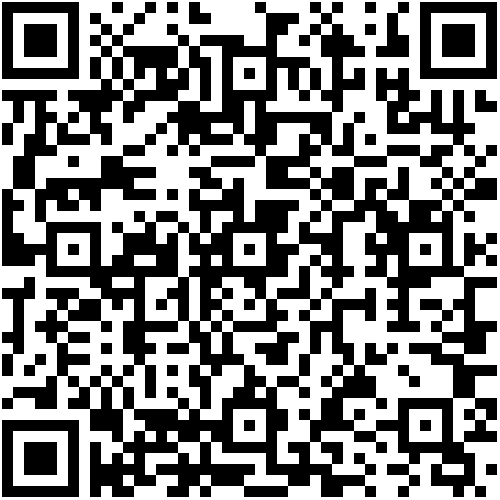
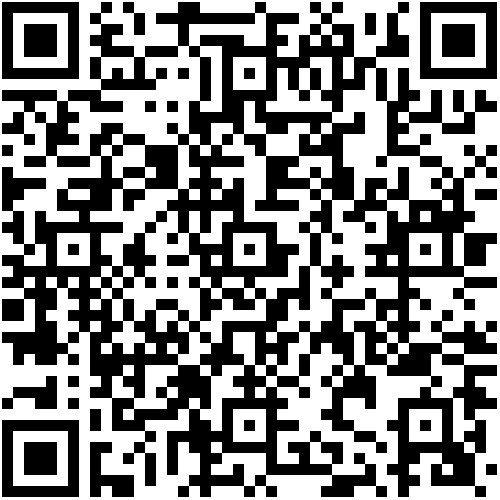
Novo preço 19,90

diff --git a/index.html b/index.html
@@ -172,7 +172,7 @@
                     <div class="content-item">
                         <div class="content-icon">💰</div>
                         <h3>Preço Acessível</h3>
-                        <p>Por apenas R$ 9,90, você tem acesso imediato a 10 cifras de qualidade para enriquecer seu
+                        <p>Por apenas R$ 19,90, você tem acesso imediato a 10 cifras de qualidade para enriquecer seu
                             repertório musical.</p>
                     </div>
                 </div>
@@ -189,7 +189,7 @@
                             <div class="stat-label">Formato</div>
                         </div>
                         <div class="stat-item">
-                            <div class="stat-number">R$9,90</div>
+                            <div class="stat-number">R$19,90</div>
                             <div class="stat-label">Preço</div>
                         </div>
                     </div>
@@ -626,7 +626,7 @@
                         <h3>Acesso Completo às Cifras</h3>
                         <div class="price">
                             <span class="currency">R$</span>
-                            <span class="amount">9,90</span>
+                            <span class="amount">19,90</span>
                             <span class="period">pagamento único</span>
                         </div>
 
@@ -684,7 +684,7 @@
                             <div class="payment-details">
                                 <div class="payment-detail-item">
                                     <span class="detail-label">Valor:</span>
-                                    <span class="detail-value">R$ 9,90</span>
+                                    <span class="detail-value">R$ 19,90</span>
                                 </div>
                                 <div class="payment-detail-item">
                                     <span class="detail-label">Beneficiário:</span>
@@ -705,7 +705,7 @@
                                 </div>
                                 <div class="payment-detail-item">
                                     <span class="detail-label">Identificador:</span>
-                                    <span class="detail-value">8q0ICKdhgr</span>
+                                    <span class="detail-value">3zLvDBKAOD</span>
                                 </div>
                             </div>
                         </div>
@@ -720,7 +720,7 @@
                                 </li>
                                 <li><strong>Confira os dados</strong> do beneficiário (Carlos Eduardo Barreto Stuchi) e
                                     o valor
-                                    (R$ 9,90)</li>
+                                    (R$ 19,90)</li>
                                 <li><strong>Confirme o pagamento</strong> e guarde o comprovante</li>
                                 <li><strong>Preencha o formulário</strong> abaixo para notificar seu pagamento</li>
                             </ol>
@@ -763,7 +763,7 @@
                         </div>
                         <div class="form-group">
                             <label for="paymentValue">Valor pago</label>
-                            <input type="text" id="paymentValue" name="paymentValue" value="9,90" required>
+                            <input type="text" id="paymentValue" name="paymentValue" value="19,90" required>
                             <small class="form-text">Confirme o valor exato que você pagou</small>
                         </div>
                         <div class="form-group">
@@ -782,7 +782,7 @@
                         </div>
                         <div class="form-check">
                             <input type="checkbox" id="termsCheck" name="termsCheck" required>
-                            <label for="termsCheck">Confirmo que realizei o pagamento de R$ 9,90 e estou ciente que
+                            <label for="termsCheck">Confirmo que realizei o pagamento de R$ 19,90 e estou ciente que
                                 receberei o acesso em até 24 horas após a confirmação.</label>
                         </div>
                         <button type="submit" class="btn btn-primary btn-block">Enviar Notificação de Pagamento</button>
